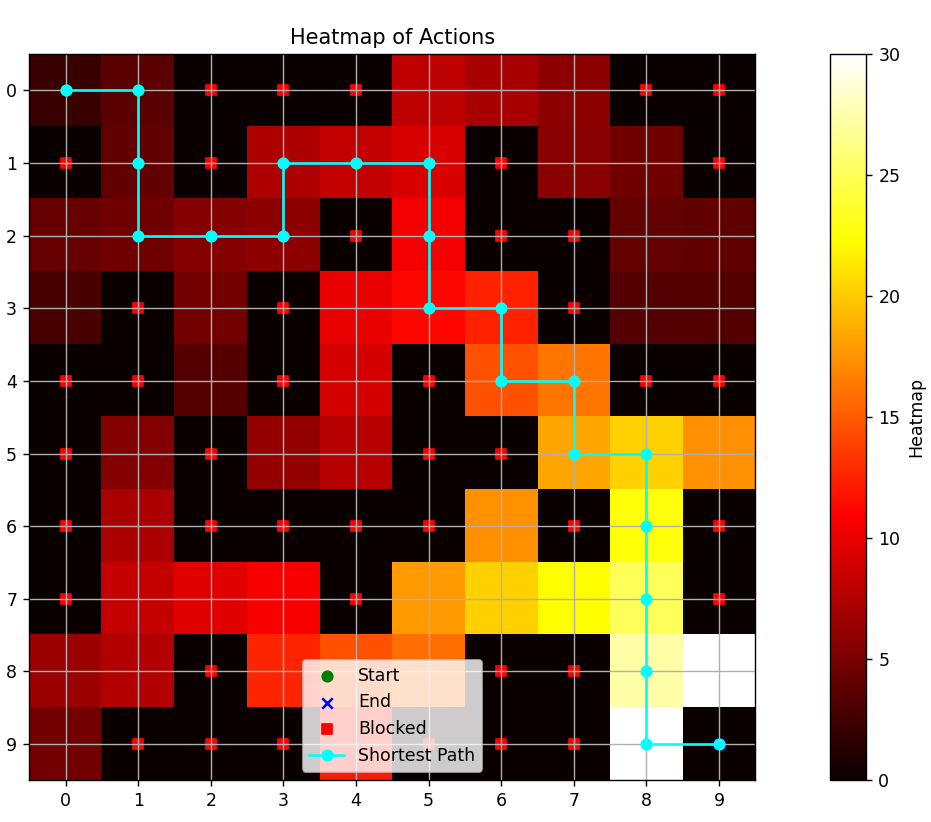
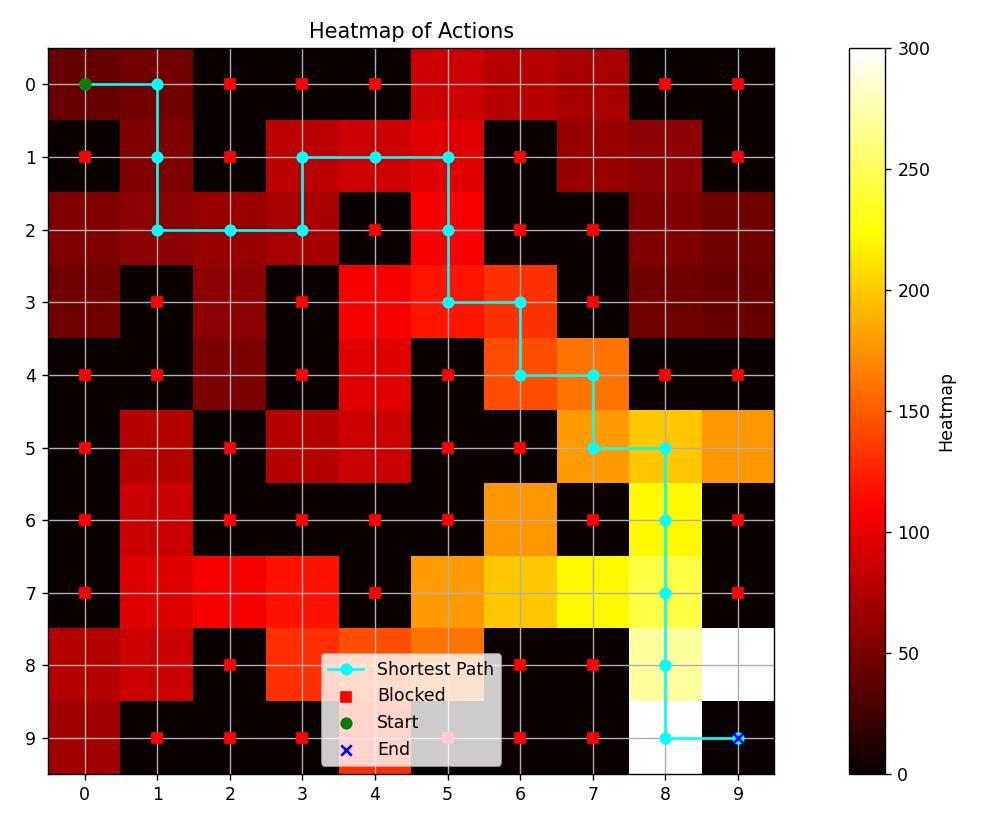
update grid and screenshots

diff --git a/rcMain.py b/rcMain.py
@@ -79,7 +79,7 @@ class RewardPathFinder:
                 if last_action is not None and ((action == 0 and last_action == 1) or (action == 1 and last_action == 0) or (action == 2 and last_action == 3) or (action == 3 and last_action == 2)):
                     reward -= 1  # Penalty for turning around
                 elif self.is_terminal(next_state):
-                    reward += 30  # reward for reaching the end
+                    reward += 300  # reward for reaching the end
                 elif next_state in self.blocked_points:
                     reward -= 1  # penalty for hitting a blocked point (walls)
                     self.consecutive_safe_actions = 0  # Reset counter
@@ -87,10 +87,10 @@ class RewardPathFinder:
                     reward += 0  # neutral reward for other moves
                     self.consecutive_safe_actions += 1  # Increment counter for safe actions
                     if self.consecutive_safe_actions == 2:
-                        reward += 1  # Reward for 3 consecutive safe actions
+                        reward += 2  # Reward for 3 consecutive safe actions
                         self.consecutive_safe_actions = 0  # Reset counter
                     elif self.consecutive_safe_actions == 3:
-                        reward += 2
+                        reward += 3
                         self.consecutive_safe_actions = 0
 
                 self.update_q_table(state, action, reward, next_state)
@@ -102,6 +102,7 @@ class RewardPathFinder:
             if total_reward > best_total_reward:
                 best_total_reward = total_reward
                 self.best_path = current_path  # Update the best path
+                
             if episode == 999 and log_random_episode:  # Log episode 1000
                 print(f"Logging actions for the last episode:")
                 for i in range(len(current_path) - 1):
@@ -151,17 +152,20 @@ class RewardPathFinder:
             plt.colorbar(label='Heatmap')
         plt.title('Heatmap of Actions' if not show_q_values else 'Q-Values Heatmap')
         
-        # Marking the start, end, and blocked points
-        plt.scatter(self.start[1], self.start[0], marker='o', color='green', label='Start')
-        plt.scatter(self.end[1], self.end[0], marker='x', color='blue', label='End')
-        for point in self.blocked_points:
-            plt.scatter(point[1], point[0], marker='s', color='red', label='Blocked' if point == self.blocked_points[0] else "")
-        
         # Draw the shortest path
         shortest_path = self.get_shortest_path()
         if shortest_path:
             path_x, path_y = zip(*shortest_path)
             plt.plot(path_y, path_x, marker='o', color='cyan', label='Shortest Path')
+        
+        # Marking the blocked points
+        for point in self.blocked_points:
+            plt.scatter(point[1], point[0], marker='s', color='red', label='Blocked' if point == self.blocked_points[0] else "", zorder=2)
+    
+        # Marking the start and end points
+        plt.scatter(self.start[1], self.start[0], marker='o', color='green', label='Start', zorder=3)
+        plt.scatter(self.end[1], self.end[0], marker='x', color='blue', label='End', zorder=3)
+
         
         plt.legend()
         plt.grid(True)  # Add grid for better visualization
@@ -178,7 +182,7 @@ class RewardPathFinder:
 
 if __name__ == "__main__":
     if len(sys.argv) != 2:
-        print("Usage: python rcMain3.py <maze_file>")
+        print("Usage: python rcMain.py <maze_file>")
         sys.exit(1)
 
     maze_file = sys.argv[1]
